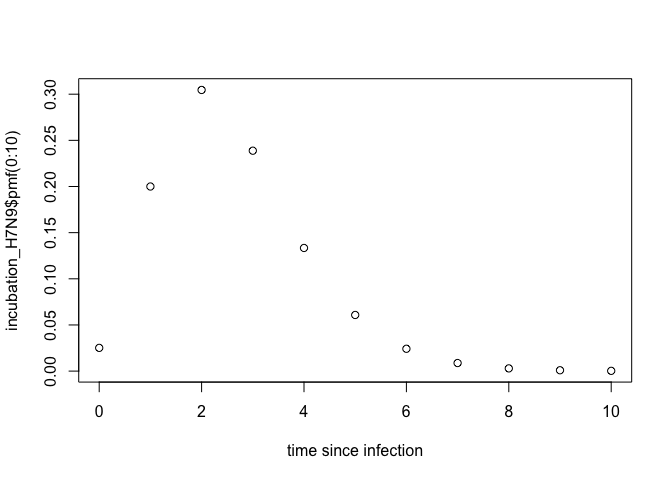
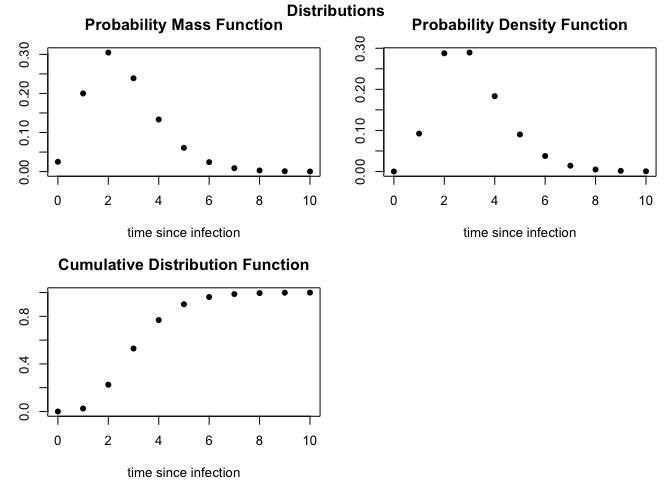
Feature/update readme (#40)
* Updated readme with info on collaborating, code of conduct, contributing and help, fixes #28

* Automatic readme update

diff --git a/README.md b/README.md
@@ -13,9 +13,9 @@ coverage](https://codecov.io/gh/epiverse-trace/epiparameter/branch/main/graph/ba
 <!-- badges: end -->
 
 `R` package with epidemiological parameter distributions for infectious
-diseases. Eventually it will include a range of pathogens and natural
-history processes, as well as functions to extract parameters from
-reported statistics.
+diseases. It includes functions that load delay distributions for a
+range of pathogens and functions to extract parameters from reported
+statistics.
 
 ## Installation
 
@@ -65,8 +65,78 @@ incubation_H7N9 <- epiparameter::epidist(
   delay_dist = "incubation"
 )
 
-# Plot probability mass function
-plot(0:10,incubation_H7N9$pmf(0:10),xlab="time since infection")
+# Plot probability distributions
+plot(incubation_H7N9)
 ```
 
 <img src="man/figures/README-example-1.png" width="100%" />
+
+## `epiparameter` tutorial with applications
+
+For a full explanation of the functions and data stored in the
+`epiparameter` package and a few possible applications of the delay
+distribution data please see the [introduction to
+`epiparameter`](https://epiverse-trace.github.io/epiparameter/articles/epiparameter.html).
+
+## Contributing to library of delay distributions
+
+If you would like to contribute to the different delay distributions
+stored in the `epiparameter` package, you can access the [google
+sheet](https://docs.google.com/spreadsheets/d/1VzC8NFHSQYPKsiDnxA7gDsm4cVr79outKQZJP8cC7Ro/edit?usp=sharing)
+and add your data.
+
+Notes on the the spreadsheet:
+
+-   Most studies will report the distribution(s) they fitted to the
+    data. In the case that the study did not report the distribution of
+    the reported parameters or summary statistics (mean and standard
+    deviation of the distribution) the distribution can be assumed
+    (e.g. by looking at the shape of the distribution from figures in
+    the paper). When a distribution is being assumed and not explicitly
+    stated please add this assumption to the notes section of the
+    spreadsheet. We are only interested in studies that report the
+    distribution fitted to the data. This will ensure that if this data
+    is used in another application the user can be alerted that the
+    distribution is assumed and not known with certainty.
+
+-   Shape and scale columns are the parameters of the gamma
+    distribution, while meanlog and sdlog columns are the parameters of
+    the lognormal distribution. In some cases these values will not be
+    reported in the study but can be extracted using the `epiparameter`
+    function `extract_param()` using either reported percentiles or
+    median and range (see [extraction section](#extraction))
+
+-   The extracted column refers to whether the distribution parameters
+    are explicitly stated in the paper, in which case the extracted
+    column should be “no”, or are extracted from summary statistics
+    using function in the package, in which case the extracted column is
+    “yes”
+
+-   Discretised is to indicate whether the study fitted a discrete
+    distribution
+
+-   Phase_bias means the study adjusted for a either a rising or falling
+    epidemic, which can bias incubation period estimates. Most studies
+    will not adjust for this bias.
+
+If fields are not known from a study, either put “NA” or “not yet
+checked”. We are also happy to receive papers which report these delay
+distributions and can add them to the database ourselves.
+
+## Help
+
+To report a bug please open an
+[issue](https://github.com/epiverse-trace/epiparameter/issues/new/choose)
+
+## Contribute
+
+Contributions to `epiparameter` are welcomed. Please follow the [package
+contributing
+guide](https://github.com/epiverse-trace/epiparameter/blob/main/.github/CONTRIBUTING.md).
+
+## Code of Conduct
+
+Please note that the DAISIEprep project is released with a [Contributor
+Code of
+Conduct](https://contributor-covenant.org/version/2/0/CODE_OF_CONDUCT.html).
+By contributing to this project, you agree to abide by its terms.
